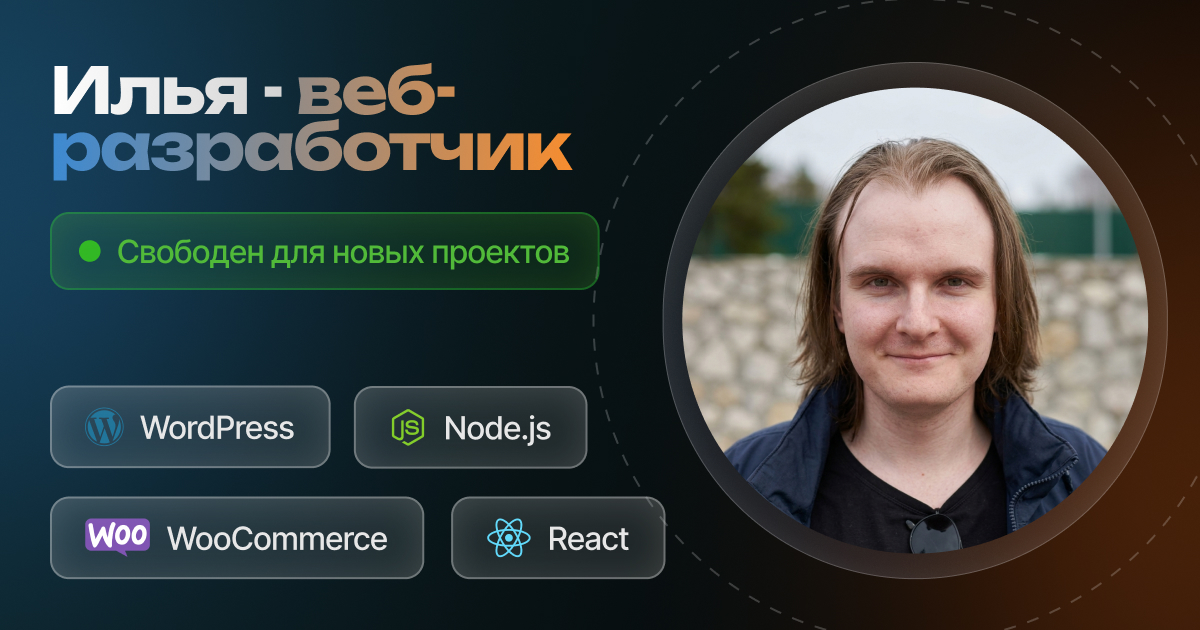
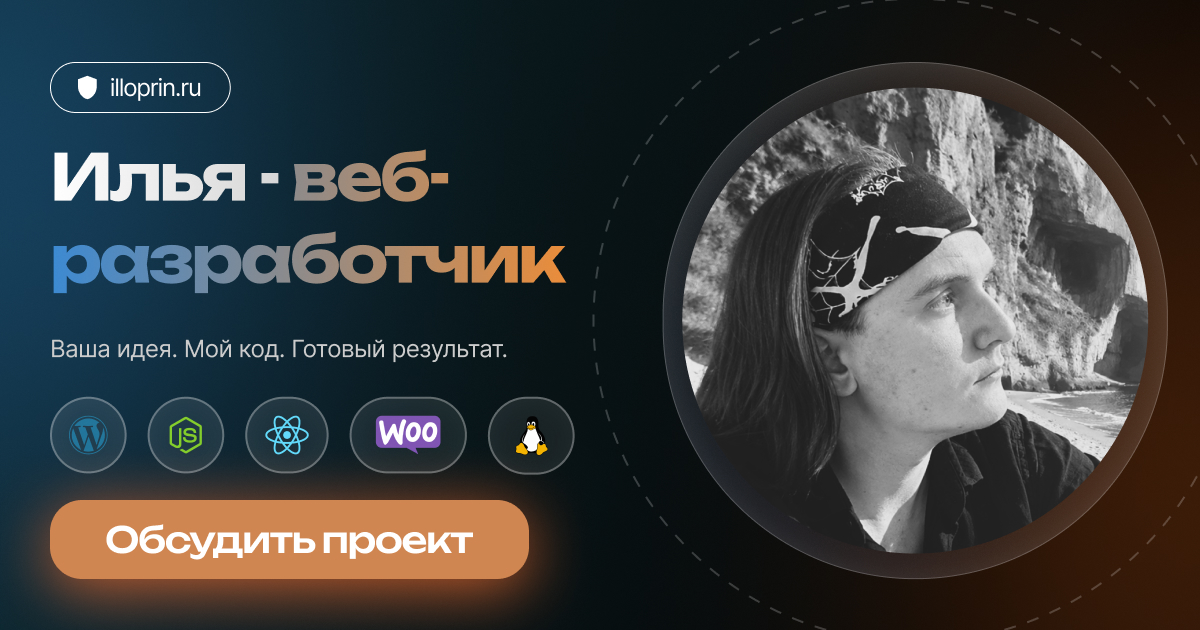
og image changed

diff --git a/README.md b/README.md
@@ -18,7 +18,7 @@
 </p>
 
 <p align="center">
-  <img src="https://raw.githubusercontent.com/illoprin/ownblog/refs/heads/master/img/Lead.webp" alt="Project Preview" width="100%">
+  <img src="./img/Hero.jpg" alt="Project Preview" width="100%">
 </p>
 
 ---
